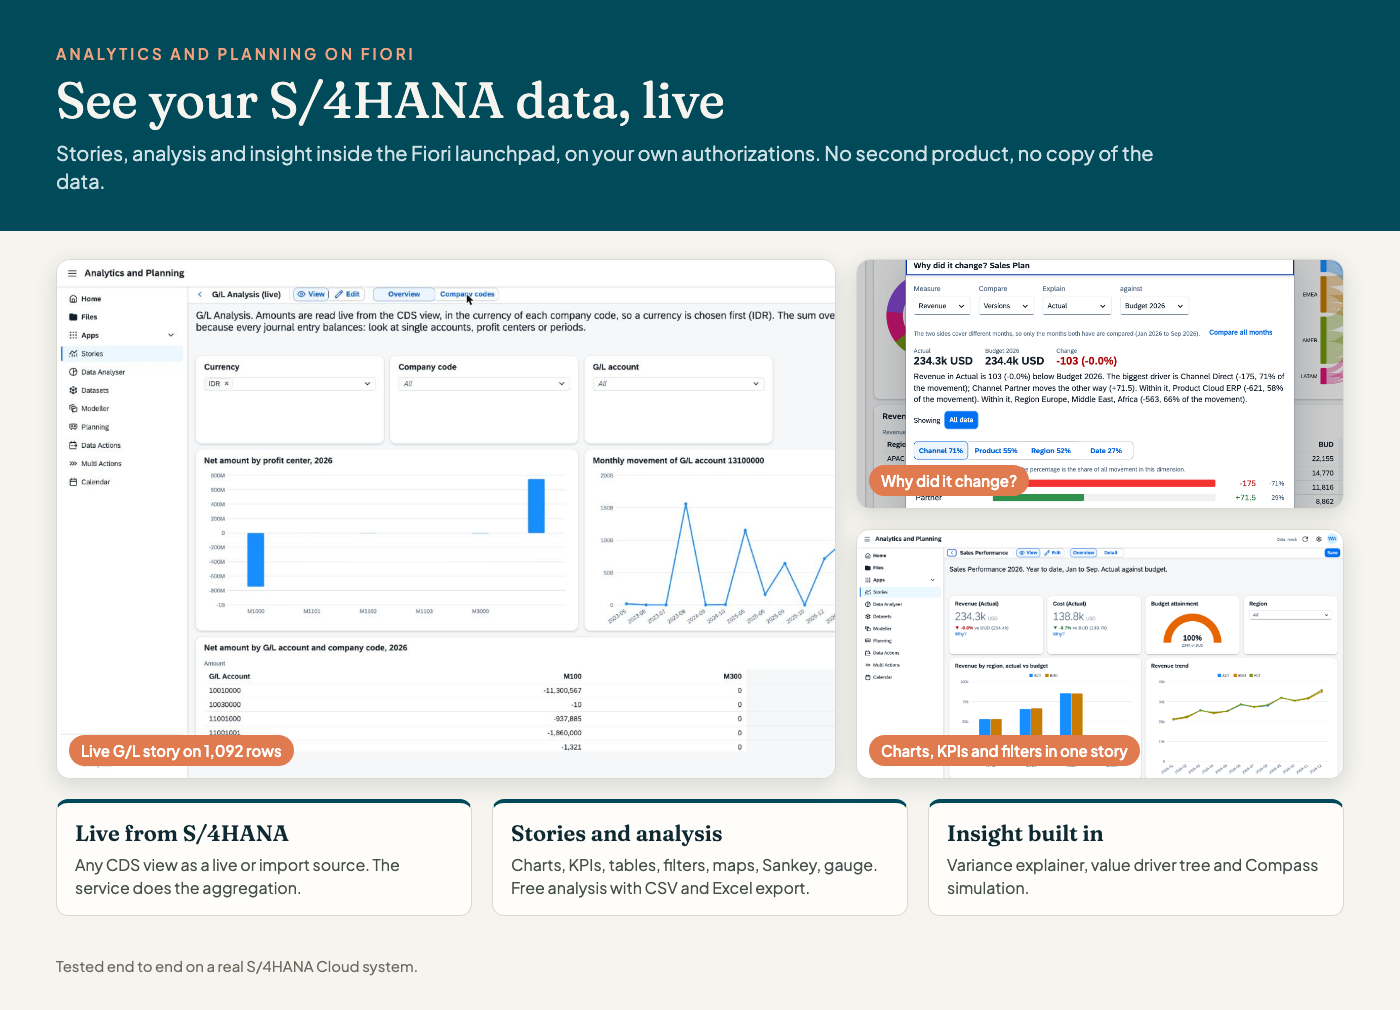
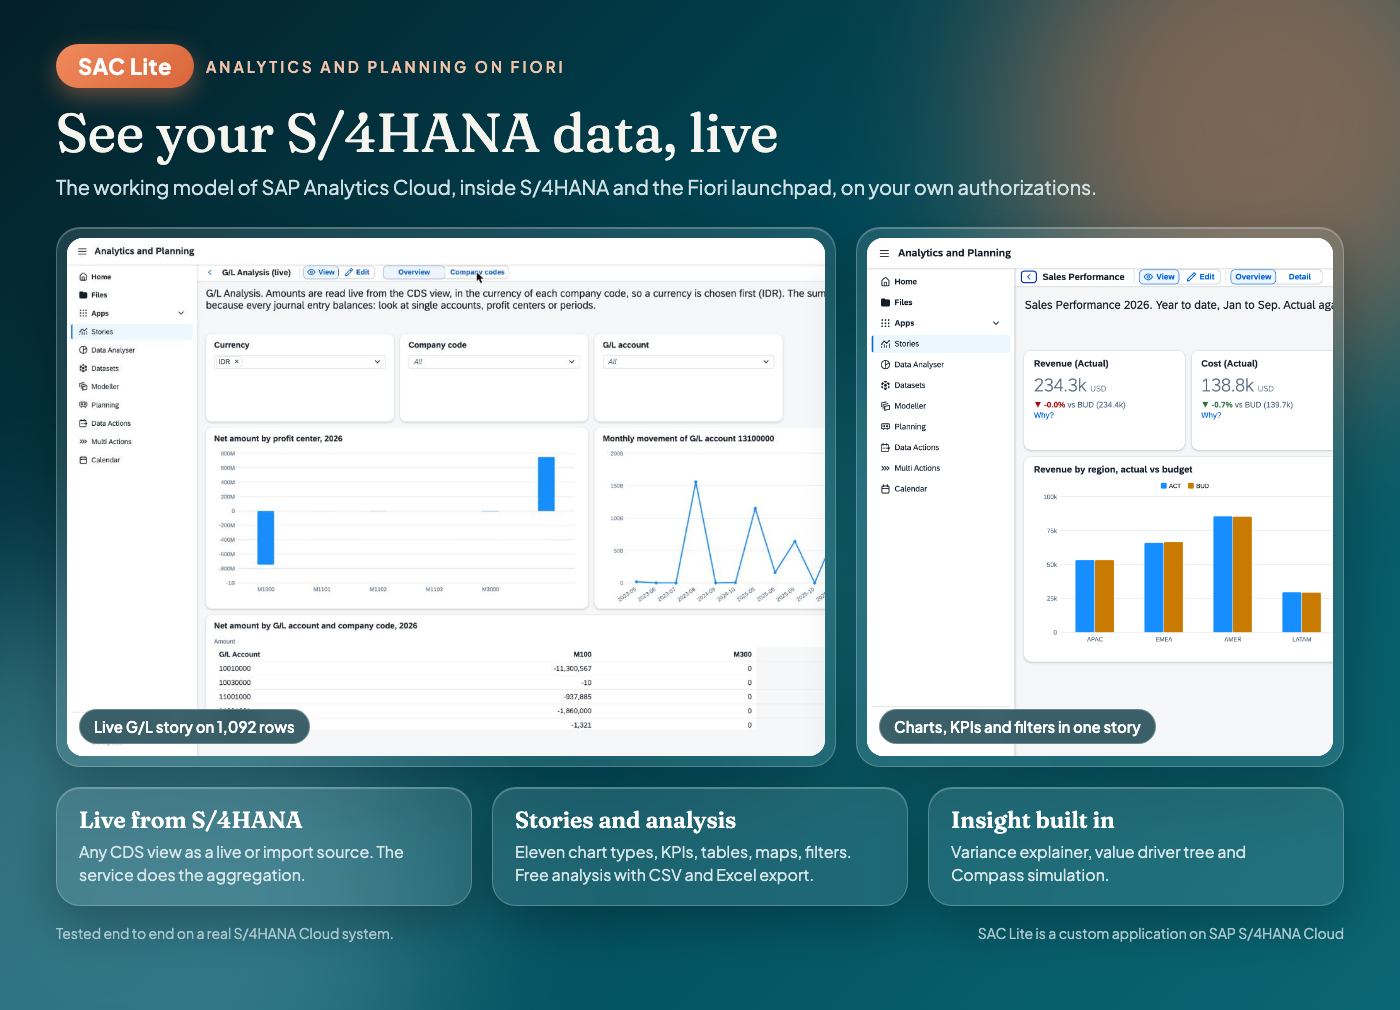
Email pictures: SAC Lite branding, gradient background, blurred glow and glass panels; third picture on value driver tree, Compass and variance

diff --git a/sap/tools/build_email_pictures.py b/sap/tools/build_email_pictures.py
@@ -1,0 +1,82 @@
+"""Three pictures for an email about SAC Lite (gradient background, blurred glow, frosted glass panels).
+Run from sap/:  python3 tools/build_email_pictures.py   (needs Google Chrome; writes sap/docs/img/email-*.png)"""
+import os, subprocess, tempfile
+
+HERE = os.path.dirname(os.path.abspath(__file__))
+IMG = os.path.abspath(os.path.join(HERE, "..", "docs", "img"))
+CHROME = "/Applications/Google Chrome.app/Contents/MacOS/Google Chrome"
+
+CSS = """
+@import url('https://fonts.googleapis.com/css2?family=Fraunces:wght@400;600&family=Plus+Jakarta+Sans:wght@400;500;600;700&display=swap');
+*{box-sizing:border-box;margin:0;padding:0}
+html,body{width:1400px;height:HEIGHTpx;overflow:hidden}
+body{position:relative;font-family:'Plus Jakarta Sans','Helvetica Neue',Arial,sans-serif;color:#f6f4ee;
+  background:linear-gradient(135deg,#041f27 0%,#004a5a 48%,#0a6672 100%)}
+.orb{position:absolute;border-radius:50%;filter:blur(90px);opacity:.75}
+.o1{width:520px;height:520px;right:-120px;top:-140px;background:#e07a4f;opacity:.55}
+.o2{width:640px;height:640px;left:-200px;bottom:-220px;background:#5294a3;opacity:.6}
+.o3{width:380px;height:380px;left:48%;top:36%;background:#2f8f9d;opacity:.35}
+.wrap{position:relative;padding:44px 56px 0}
+.badge{display:inline-flex;align-items:center;gap:12px}
+.pill{background:linear-gradient(135deg,#f08a5d,#d9663a);color:#fff;font-weight:700;font-size:22px;padding:8px 22px;border-radius:999px;letter-spacing:.5px;box-shadow:0 8px 24px rgba(224,122,79,.45)}
+.eb{font-size:15px;letter-spacing:3px;text-transform:uppercase;color:#f2c1a8;font-weight:600}
+h1{font-family:'Fraunces',Georgia,serif;font-weight:400;font-size:54px;margin-top:16px;line-height:1.06}
+.sub{font-size:20px;margin-top:12px;color:#cfe1e5;max-width:1150px;line-height:1.4}
+.glass{background:rgba(255,255,255,.10);backdrop-filter:blur(22px);-webkit-backdrop-filter:blur(22px);border:1px solid rgba(255,255,255,.24);box-shadow:0 18px 50px rgba(0,0,0,.28),inset 0 1px 0 rgba(255,255,255,.25);border-radius:24px}
+.grid{position:relative;display:grid;gap:20px;padding:26px 56px 0}
+.tile{padding:10px;position:relative}
+.tile .in{position:relative;border-radius:16px;overflow:hidden;background:#fff;height:100%}
+.tile img{width:100%;height:100%;object-fit:cover;object-position:top left;display:block}
+.tag{position:absolute;left:22px;bottom:22px;background:rgba(7,53,64,.78);backdrop-filter:blur(10px);color:#fff;font-size:15px;font-weight:600;padding:7px 14px;border-radius:999px;border:1px solid rgba(255,255,255,.25)}
+.chips{position:relative;display:grid;grid-template-columns:repeat(3,1fr);gap:20px;padding:20px 56px 0}
+.chip{padding:18px 22px}
+.chip b{font-family:'Fraunces',Georgia,serif;font-size:23px;font-weight:600;display:block;margin-bottom:6px;color:#fff}
+.chip span{font-size:16px;line-height:1.45;color:#d6e6e9}
+.foot{position:relative;padding:18px 56px 0;font-size:14px;color:#a9c6cc;display:flex;justify-content:space-between}
+"""
+
+def page(name, height, eb, title, sub, grid_cols, tiles, chips, foot):
+    h = f"<html><head><meta charset='utf-8'><style>{CSS.replace('HEIGHT', str(height))}</style></head><body>"
+    h += "<div class='orb o1'></div><div class='orb o2'></div><div class='orb o3'></div>"
+    h += f"<div class='wrap'><div class='badge'><span class='pill'>SAC Lite</span><span class='eb'>{eb}</span></div><h1>{title}</h1><div class='sub'>{sub}</div></div>"
+    h += f"<div class='grid' style='grid-template-columns:{grid_cols}'>"
+    for (img, tag, style, extra) in tiles:
+        h += f"<div class='tile glass' style='{style}'><div class='in'><img src='file://{IMG}/{img}' style='{extra}'></div><div class='tag'>{tag}</div></div>"
+    h += "</div><div class='chips'>"
+    for t, d in chips:
+        h += f"<div class='chip glass'><b>{t}</b><span>{d}</span></div>"
+    h += f"</div><div class='foot'><span>{foot}</span><span>SAC Lite is a custom application on SAP S/4HANA Cloud</span></div></body></html>"
+    path = os.path.join(tempfile.gettempdir(), name + ".html")
+    open(path, "w").write(h)
+    out = os.path.join(IMG, name + ".png")
+    subprocess.run([CHROME, "--headless", "--disable-gpu", "--hide-scrollbars", "--virtual-time-budget=12000", f"--window-size=1400,{height}",
+                    "--allow-file-access-from-files", f"--screenshot={out}", "file://" + path], stdout=subprocess.DEVNULL, stderr=subprocess.DEVNULL, check=True)
+    print("written", out)
+
+SUB = "The working model of SAP Analytics Cloud, inside S/4HANA and the Fiori launchpad, on your own authorizations."
+
+page("email-1-analyse", 1010, "Analytics and planning on Fiori", "See your S/4HANA data, live", SUB, "780px 1fr",
+     [("gl-01-story-overview.jpg", "Live G/L story on 1,092 rows", "height:540px", ""),
+      ("03-story-overview.png", "Charts, KPIs and filters in one story", "height:540px", "")],
+     [("Live from S/4HANA", "Any CDS view as a live or import source. The service does the aggregation."),
+      ("Stories and analysis", "Eleven chart types, KPIs, tables, maps, filters. Free analysis with CSV and Excel export."),
+      ("Insight built in", "Variance explainer, value driver tree and Compass simulation.")],
+     "Tested end to end on a real S/4HANA Cloud system.")
+
+page("email-2-plan", 1010, "Analytics and planning on Fiori", "Plan, control and automate",
+     "Versions, locking and rules for planners; data actions and multi actions that do the repetitive work.", "780px 1fr",
+     [("08-planning-validation-rule.jpg", "Validation rules on plan values", "height:540px", ""),
+      ("13-multi-action-lock-stops-run.jpg", "Multi action stops at a lock", "height:540px", "transform:scale(1.45);transform-origin:50% 50%;object-position:center")],
+     [("Plan safely", "Private versions, publish and revert, history, comments on cells, locking regions and validation rules."),
+      ("Automate", "Seven data action steps and eleven multi action steps: allocate, convert currency, forecast, import, call an API."),
+      ("Share and secure", "Owner, view, edit or everyone, enforced by the server. Calendar with approvals and reminders.")],
+     "Tested with two users on a real S/4HANA Cloud system: 221 unit tests, 28 end-to-end checks.")
+
+page("email-3-insight", 1170, "Analytics and planning on Fiori", "Why it changed, what if, how safe",
+     "Insight tools built into the stories: a value driver tree to simulate, a Compass to measure the risk, a variance explainer to find the cause.", "1fr 1fr",
+     [("vdt-simulation.jpg", "Value driver tree: +10% on Cloud ERP lifts profit +7.2%", "height:590px", ""),
+      ("compass-simulation.jpg", "Compass: 10,000 runs, 51% chance of reaching the baseline", "height:590px", "")],
+     [("Value driver tree", "Type a percentage under any driver and watch the effect reach the top, against budget."),
+      ("Compass simulation", "Monte Carlo on uncertain drivers: pessimistic, realistic and optimistic range, and what moves the target."),
+      ("Why did it change?", "The variance explainer names the drivers of a change between versions or periods, by every dimension.")],
+     "Sample data. The same widgets run on live S/4HANA data.")
